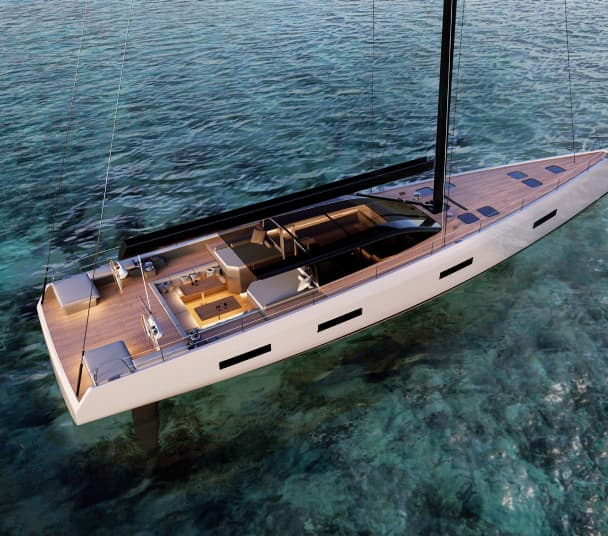
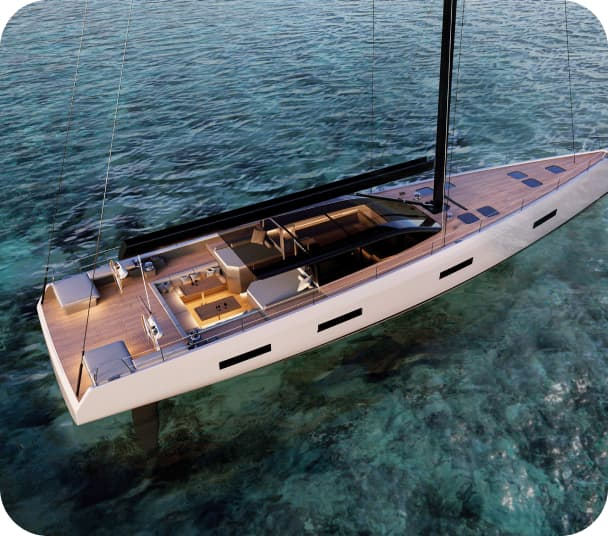
our yachts tab

diff --git a/css/styles.css b/css/styles.css
@@ -241,11 +241,11 @@ screen and (min-device-pixel-ratio: 2) and (max-width: 767px) {
 
 /* ============== MOBILE OUR YACHTS ============== */
 
-.position-benetti {
+.card-benetti {
     display: none;
 }
 
-.position-belle {
+.card-belle {
     display: none;
 }
 
@@ -255,10 +255,12 @@ screen and (min-device-pixel-ratio: 2) and (max-width: 767px) {
 
 .conteiner-our-yachts {
     max-width: 335px;
-    margin: auto;
+    margin-left: auto;
+    margin-right: auto;
 }
 
 .our-yachts-title {
+    max-width: 314px;
     font-weight: 500;
     font-size: 28px;
     line-height: 1;
@@ -266,14 +268,11 @@ screen and (min-device-pixel-ratio: 2) and (max-width: 767px) {
     text-align: center;
     color: #fbfbfb;
     margin-bottom: 40px;
-    padding-left: 30px;
-    padding-right: 30px;
+    margin-left: auto;
+    margin-right: auto;
 }
 
 .our-yachts-list {
-    display: flex;
-    flex-direction: column;
-    align-items: center;
     background: #fbfbfb;
     border-radius: 24px;
 }
@@ -288,10 +287,8 @@ screen and (min-device-pixel-ratio: 2) and (max-width: 767px) {
 
 .list-item-yachts {
     display: flex;
+    justify-content: space-between;
     align-items: center;
-    justify-content: flex-start;
-    flex-direction: row;
-    gap: 125px;
     padding-bottom: 16px;
     position: relative;
 }
@@ -328,47 +325,38 @@ screen and (min-device-pixel-ratio: 2) and (max-width: 767px) {
 
 .yachts-prices {
     display: flex;
-    align-items: flex-start;
-    justify-content: flex-start;
-    flex-direction: row;
-    gap: 114px;
+    justify-content: space-between;
+    align-items: center;
     padding-top: 16px;
 }
 
 .yacht-prices-menu {
     display: flex;
-        align-items: flex-start;
-        justify-content: flex-start;
-        flex-direction: column;
-        gap: 6px;
+    flex-direction: column;
+    gap: 6px;
 }
 
 .item-label {
-    
-        font-weight: 400;
-        font-size: 14px;
-    
-        
-        line-height: 1.18;
-        letter-spacing: 0.03em;
-        text-transform: uppercase;
-        color: #040306;
+    font-weight: 400;
+    font-size: 14px;
+    line-height: 1.18;
+    letter-spacing: 0.03em;
+    text-transform: uppercase;
+    color: #040306;
 }
 
 .yacht-prices-list {
     display: flex;
-        align-items: flex-start;
-        justify-content: center;
-        flex-direction: column;
-        gap: 6px;
+    flex-direction: column;
+    gap: 6px;
 }
 
 .item-prices {
-        font-weight: 400;
-        font-size: 14px; 
-        line-height: 1.18;
-        letter-spacing: 0.03em;
-        color: #040306;
+    font-weight: 400;
+    font-size: 14px; 
+    line-height: 1.18;
+    letter-spacing: 0.03em;
+    color: #040306;
 }
 
 .yachts-link-send {
@@ -380,18 +368,18 @@ screen and (min-device-pixel-ratio: 2) and (max-width: 767px) {
 
 .our-jachts-sending {
     display: flex;
-        font-weight: 500;
-        font-size: 14px; 
-        line-height: 1.28;
-        letter-spacing: -0.02em;
-        color: #fbfbfb;
-        padding-left: 32px;
-        padding-top: 16px;
-        gap: 10px;
-            border: 1px solid rgba(251, 251, 251, 0.35);
-            border-radius: 15px;
-            width: 141px;
-            height: 46px;
+    font-weight: 500;
+    font-size: 14px; 
+    line-height: 1.28;
+    letter-spacing: -0.02em;
+    color: #fbfbfb;
+    padding-left: 32px;
+    padding-top: 14px;
+    gap: 10px;
+    border: 1px solid rgba(251, 251, 251, 0.35);
+    border-radius: 15px;
+    width: 141px;
+    height: 46px;
 }
 
 /* ============== /MOBILE OUR YACHTS ============== */
@@ -404,7 +392,8 @@ screen and (min-device-pixel-ratio: 2) and (max-width: 767px) {
 
     .page-header {
         max-width: 704px;
-        margin: auto;
+        margin-left: auto;
+        margin-right: auto;
         top: 32px;   
     }
 
@@ -554,6 +543,62 @@ screen and (min-device-pixel-ratio: 2) and (max-width: 767px) {
     }
 
         /* ============== /TABLET ABOUT ============== */
+
+        /* ============== TABLET OUR YACHTS ============== */
+
+    .card-benetti {
+        display: list-item;
+    }
+
+    .conteiner-our-yachts {
+        max-width: 704px;
+    }
+
+    .our-yachts-title {
+        font-size: 48px;
+        margin-bottom: 75px;
+        max-width: 645px;
+    }
+
+    .our-yachts-list {
+       display: inline-flex;
+       gap: 32px;
+       background: none;
+    }
+
+    .our-yachts-item {
+       border-radius: 24px;
+       background: #fbfbfb;
+    }
+
+    .yacht-name {
+        font-size: 16px;
+        line-height: 1.2;
+        width: 147px;
+        white-space: nowrap;
+        overflow: hidden;
+        text-overflow: ellipsis;
+    }
+
+    .yacht-option-text {
+        font-size: 13px;
+        line-height: 1.18;
+    }
+
+    .yachts-link-send {
+        padding-top: 50px;
+        padding-bottom: 75px;
+    }
+
+    .our-jachts-sending {
+        width: 179px;
+        height: 52px;
+        padding-left: 40px;
+        padding-top: 16px;
+        font-size: 18px;
+        line-height: 1.1;
+    }
+     /* ============== /TABLET OUR YACHTS ============== */
 }
 
 @media screen and (min-width: 1280px) {
@@ -627,8 +672,27 @@ screen and (min-device-pixel-ratio: 2) and (max-width: 767px) {
        
     }
 
-
     /* ============== /DESKTOP ABOUT ============== */
+
+    /* ============== /DESKTOP OUR YACHTS ============== */
+
+    .card-belle {
+        display: list-item;
+    }
+
+    .our-yachts-section {
+        padding-top: 150px;
+    }
+
+    .conteiner-our-yachts {
+        max-width: 1181px;
+    }
+
+    .our-yachts-title {
+        max-width: 714px;
+    }
+
+    /* ============== DESKTOP OUR YACHTS ============== */
 }
 
 @media screen and (min-width: 1440px) {

diff --git a/index.html b/index.html
@@ -191,7 +191,7 @@
             Choose your dream yacht and sail away into the sunset
           </h2>
           <ul class="our-yachts-list">
-            <li class="our-yachts-item">
+            <li class="our-yachts-item list">
               <div class="our-yachts-images">
                 <picture>
                   <source
@@ -231,28 +231,28 @@
               </div>
               <div class="yachts-info">
                 <div class="list-item-yachts">
-                  <h3 class="yacht-name list">Arrow</h3>
+                  <h3 class="yacht-name">Arrow</h3>
                   <p class="yacht-option-text">LUXURY YAHTS</p>
                 </div>
                 <div class="yachts-prices">
-                  <ul class="yacht-prices-menu">
-                    <li class="item-label list">LENGTH</li>
-                    <li class="item-label list">BUILDER</li>
-                    <li class="item-label list">BUILT</li>
-                    <li class="item-label list">GUESTS</li>
-                    <li class="item-label list">PRICE</li>
+                  <ul class="yacht-prices-menu list">
+                    <li class="item-label">LENGTH</li>
+                    <li class="item-label">BUILDER</li>
+                    <li class="item-label">BUILT</li>
+                    <li class="item-label">GUESTS</li>
+                    <li class="item-label">PRICE</li>
                   </ul>
-                  <ul class="yacht-prices-list">
-                    <li class="item-prices list">48m(155ft)</li>
-                    <li class="item-prices list">Admiral</li>
-                    <li class="item-prices list">2021</li>
-                    <li class="item-prices list">11 in 5 cabins</li>
-                    <li class="item-prices list">€33,500,000</li>
+                  <ul class="yacht-prices-list list">
+                    <li class="item-prices">48m(155ft)</li>
+                    <li class="item-prices">Admiral</li>
+                    <li class="item-prices">2021</li>
+                    <li class="item-prices">11 in 5 cabins</li>
+                    <li class="item-prices">€33,500,000</li>
                   </ul>
                 </div>
               </div>
             </li>
-            <li class="our-yachts-item position-benetti">
+            <li class="our-yachts-item list card-benetti">
               <div class="our-yachts-images">
                 <picture class="our-yachts-photo">
                   <source
@@ -296,14 +296,14 @@
                   <p class="yacht-option-text">luxury yachts</p>
                 </div>
                 <div class="yachts-prices">
-                  <ul class="yacht-prices-menu">
+                  <ul class="yacht-prices-menu list">
                     <li class="item-label">LENGTH</li>
                     <li class="item-label">SHIPYARD</li>
                     <li class="item-label">BUILT</li>
                     <li class="item-label">GUESTS</li>
                     <li class="item-label">PRICE</li>
                   </ul>
-                  <ul class="yacht-prices-list">
+                  <ul class="yacht-prices-list list">
                     <li class="item-prices">41m(133ft)</li>
                     <li class="item-prices">Benetti</li>
                     <li class="item-prices">2025</li>
@@ -313,7 +313,7 @@
                 </div>
               </div>
             </li>
-            <li class="our-yachts-item position-belle">
+            <li class="our-yachts-item card-belle">
               <div class="our-yachts-images">
                 <picture class="our-yachts-photo">
                   <source
